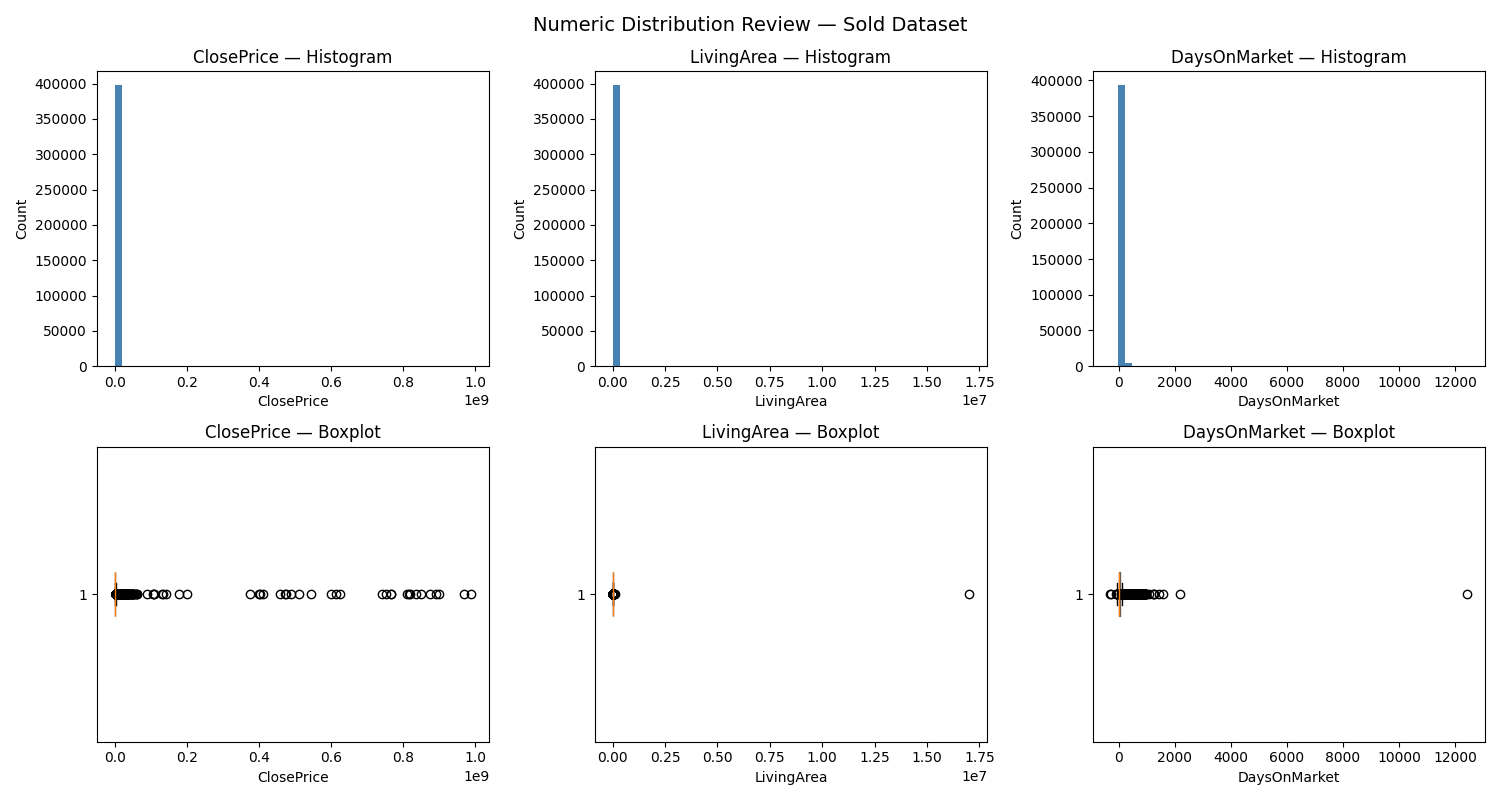
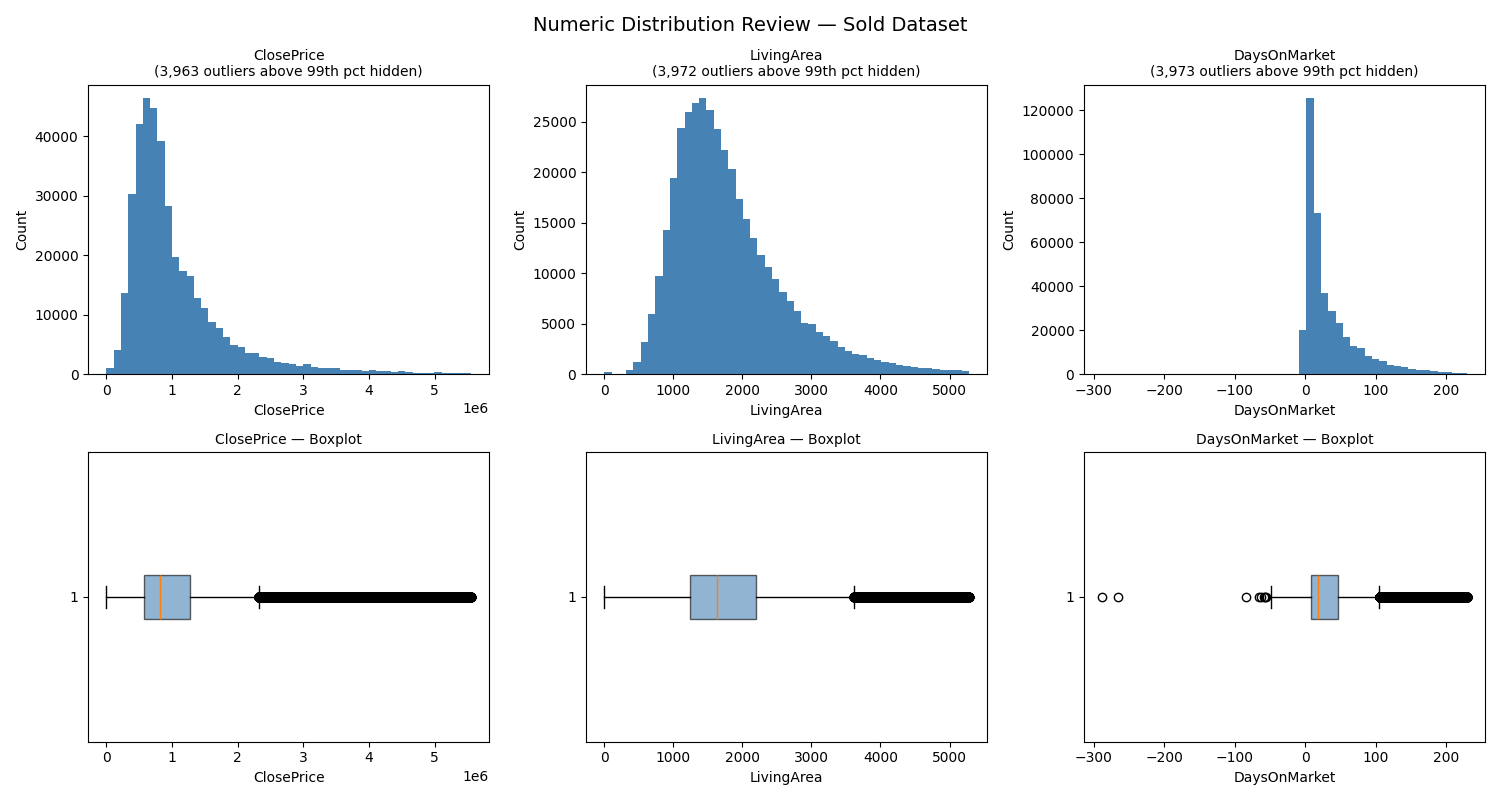
Update to Week 2-3 Plots

diff --git a/Week 2-3/week2_3_eda_mortgage.py b/Week 2-3/week2_3_eda_mortgage.py
@@ -116,15 +116,19 @@ for i, col in enumerate(key_fields):
     if col not in sold.columns:
         continue
     data = sold[col].dropna()
+    # Clip display to 99th percentile so outliers don't crush the axis scale
+    p99 = data.quantile(0.99)
+    display_data = data[data <= p99]
+    outlier_count = len(data) - len(display_data)
     # Histogram
-    axes[0, i].hist(data, bins=50, edgecolor='none', color='steelblue')
-    axes[0, i].set_title(f'{col} — Histogram')
+    axes[0, i].hist(display_data, bins=50, edgecolor='none', color='steelblue')
+    axes[0, i].set_title(f'{col}\n({outlier_count:,} outliers above 99th pct hidden)', fontsize=10)
     axes[0, i].set_xlabel(col)
     axes[0, i].set_ylabel('Count')
     # Boxplot
-    axes[1, i].boxplot(data, vert=False, patch_artist=True,
+    axes[1, i].boxplot(display_data, vert=False, patch_artist=True,
                        boxprops=dict(facecolor='steelblue', alpha=0.6))
-    axes[1, i].set_title(f'{col} — Boxplot')
+    axes[1, i].set_title(f'{col} — Boxplot', fontsize=10)
     axes[1, i].set_xlabel(col)
 
 plt.tight_layout()
